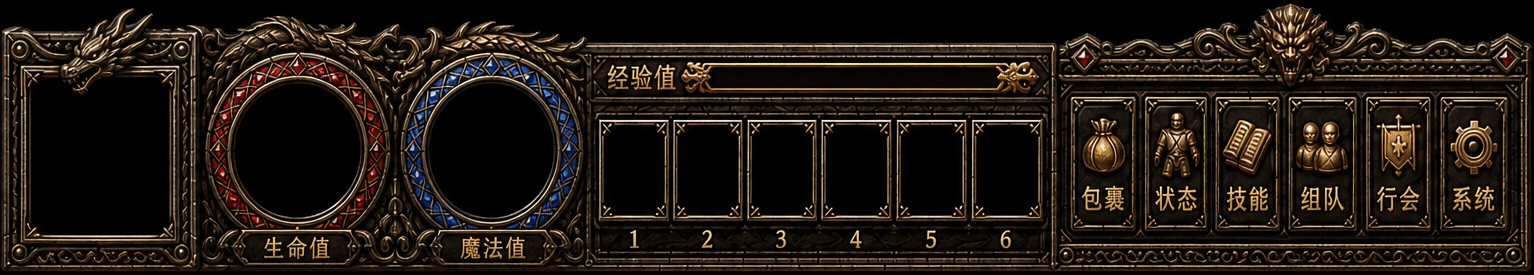
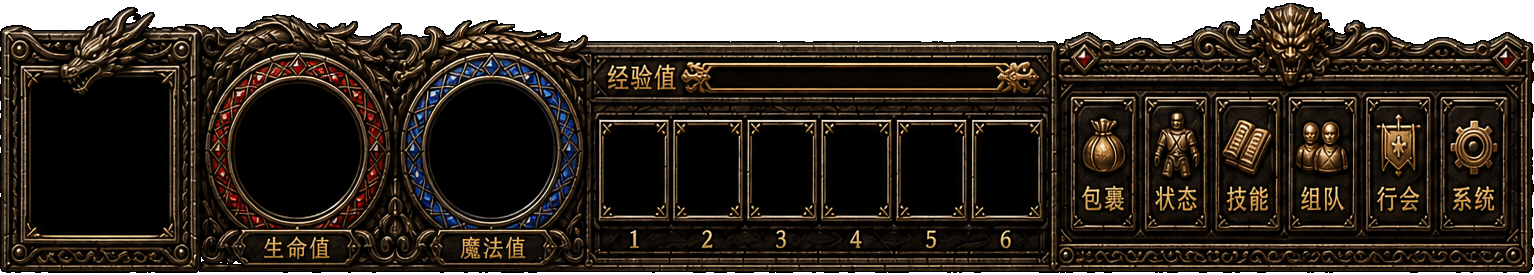
fix: 底部HUD外圈黑底抠透，空槽改为凹陷井底
外轮廓纯黑 flood 抠透明，保留脸/血蓝/经验/腰带挖空；CSS 为空槽加暗部渐变，避免死黑块。

Changed region(s): [[0.0, 0.0, 1.0, 0.1745], [0.0, 0.9891, 1.0, 1.0]]

diff --git a/css/style.css b/css/style.css
@@ -258,8 +258,11 @@ kbd { border: 1px solid #5c4b35; background: #110e0b; color: #d5c4a5; border-rad
 .mir-face {
   position: absolute;
   left: 2.48%; top: 28.0%; width: 8.28%; height: 57.45%;
-  padding: 0; border: 0; background: #050403; cursor: pointer; overflow: hidden;
+  padding: 0; border: 0; cursor: pointer; overflow: hidden;
   pointer-events: auto; z-index: 2;
+  background:
+    radial-gradient(circle at 45% 30%, #2a2218 0%, #120e0a 55%, #050403 100%);
+  box-shadow: inset 0 0 10px rgba(0,0,0,.85);
 }
 .mir-face img { width: 100%; height: 100%; object-fit: cover; object-position: center top; display: block; }
 .mir-face .lv {
@@ -276,6 +279,11 @@ kbd { border: 1px solid #5c4b35; background: #110e0b; color: #d5c4a5; border-rad
   overflow: hidden;
   pointer-events: none;
   z-index: 2;
+  /* 空槽水晶井底，避免纯黑死块 */
+  background:
+    radial-gradient(circle at 38% 28%, rgba(90,80,70,.35), transparent 42%),
+    radial-gradient(circle at 50% 70%, #1a1410 0%, #070605 70%, #020201 100%);
+  box-shadow: inset 0 0 14px rgba(0,0,0,.9), inset 0 -8px 16px rgba(0,0,0,.45);
 }
 .mir-orb.hp { left: 15.06%; }
 .mir-orb.mp { left: 27.71%; }
@@ -306,8 +314,10 @@ kbd { border: 1px solid #5c4b35; background: #110e0b; color: #d5c4a5; border-rad
 .mir-exp {
   position: absolute;
   left: 46.35%; top: 24.36%; width: 18.58%; height: 7.64%;
-  background: transparent; border: 0; overflow: hidden;
+  border: 0; overflow: hidden;
   pointer-events: none; z-index: 2;
+  background: linear-gradient(180deg, #1a140e 0%, #0a0806 55%, #050403 100%);
+  box-shadow: inset 0 1px 2px rgba(0,0,0,.9);
 }
 .mir-exp-fill {
   height: 100%; width: 100%; transform-origin: left center;
@@ -336,7 +346,12 @@ kbd { border: 1px solid #5c4b35; background: #110e0b; color: #d5c4a5; border-rad
 .mir-slot.potion-hp { background-size: 1200% 1000%; background-position: 0 0; }
 .mir-slot.potion-mp { background-size: 1200% 1000%; background-position: -200% 0; }
 .mir-slot.scroll { background-size: 1200% 1000%; background-position: -400% 0; }
-.mir-slot.empty { background: transparent; cursor: default; pointer-events: none; }
+.mir-slot.empty {
+  background:
+    linear-gradient(180deg, rgba(40,32,24,.55), rgba(8,6,5,.9));
+  box-shadow: inset 0 0 6px rgba(0,0,0,.75);
+  cursor: default; pointer-events: none;
+}
 .mir-slot b {
   position: absolute; right: 2px; bottom: 1px; min-width: 12px; padding: 0 2px;
   background: rgba(0,0,0,.72); color: #ffe19a; font-size: 8px; line-height: 1.2;

diff --git a/index.html b/index.html
@@ -106,7 +106,7 @@
         </aside>
 
         <div class="bottom-hud mir-hud hit" id="mir-hud">
-          <img class="mir-hud-frame" src="assets/game/ui/hud/bottom_frame.png?v=0.9.27" alt="" draggable="false" />
+          <img class="mir-hud-frame" src="assets/game/ui/hud/bottom_frame.png?v=0.9.29" alt="" draggable="false" />
 
           <button id="btn-character" class="mir-face" aria-label="角色信息">
             <img id="hud-portrait" alt="" />
